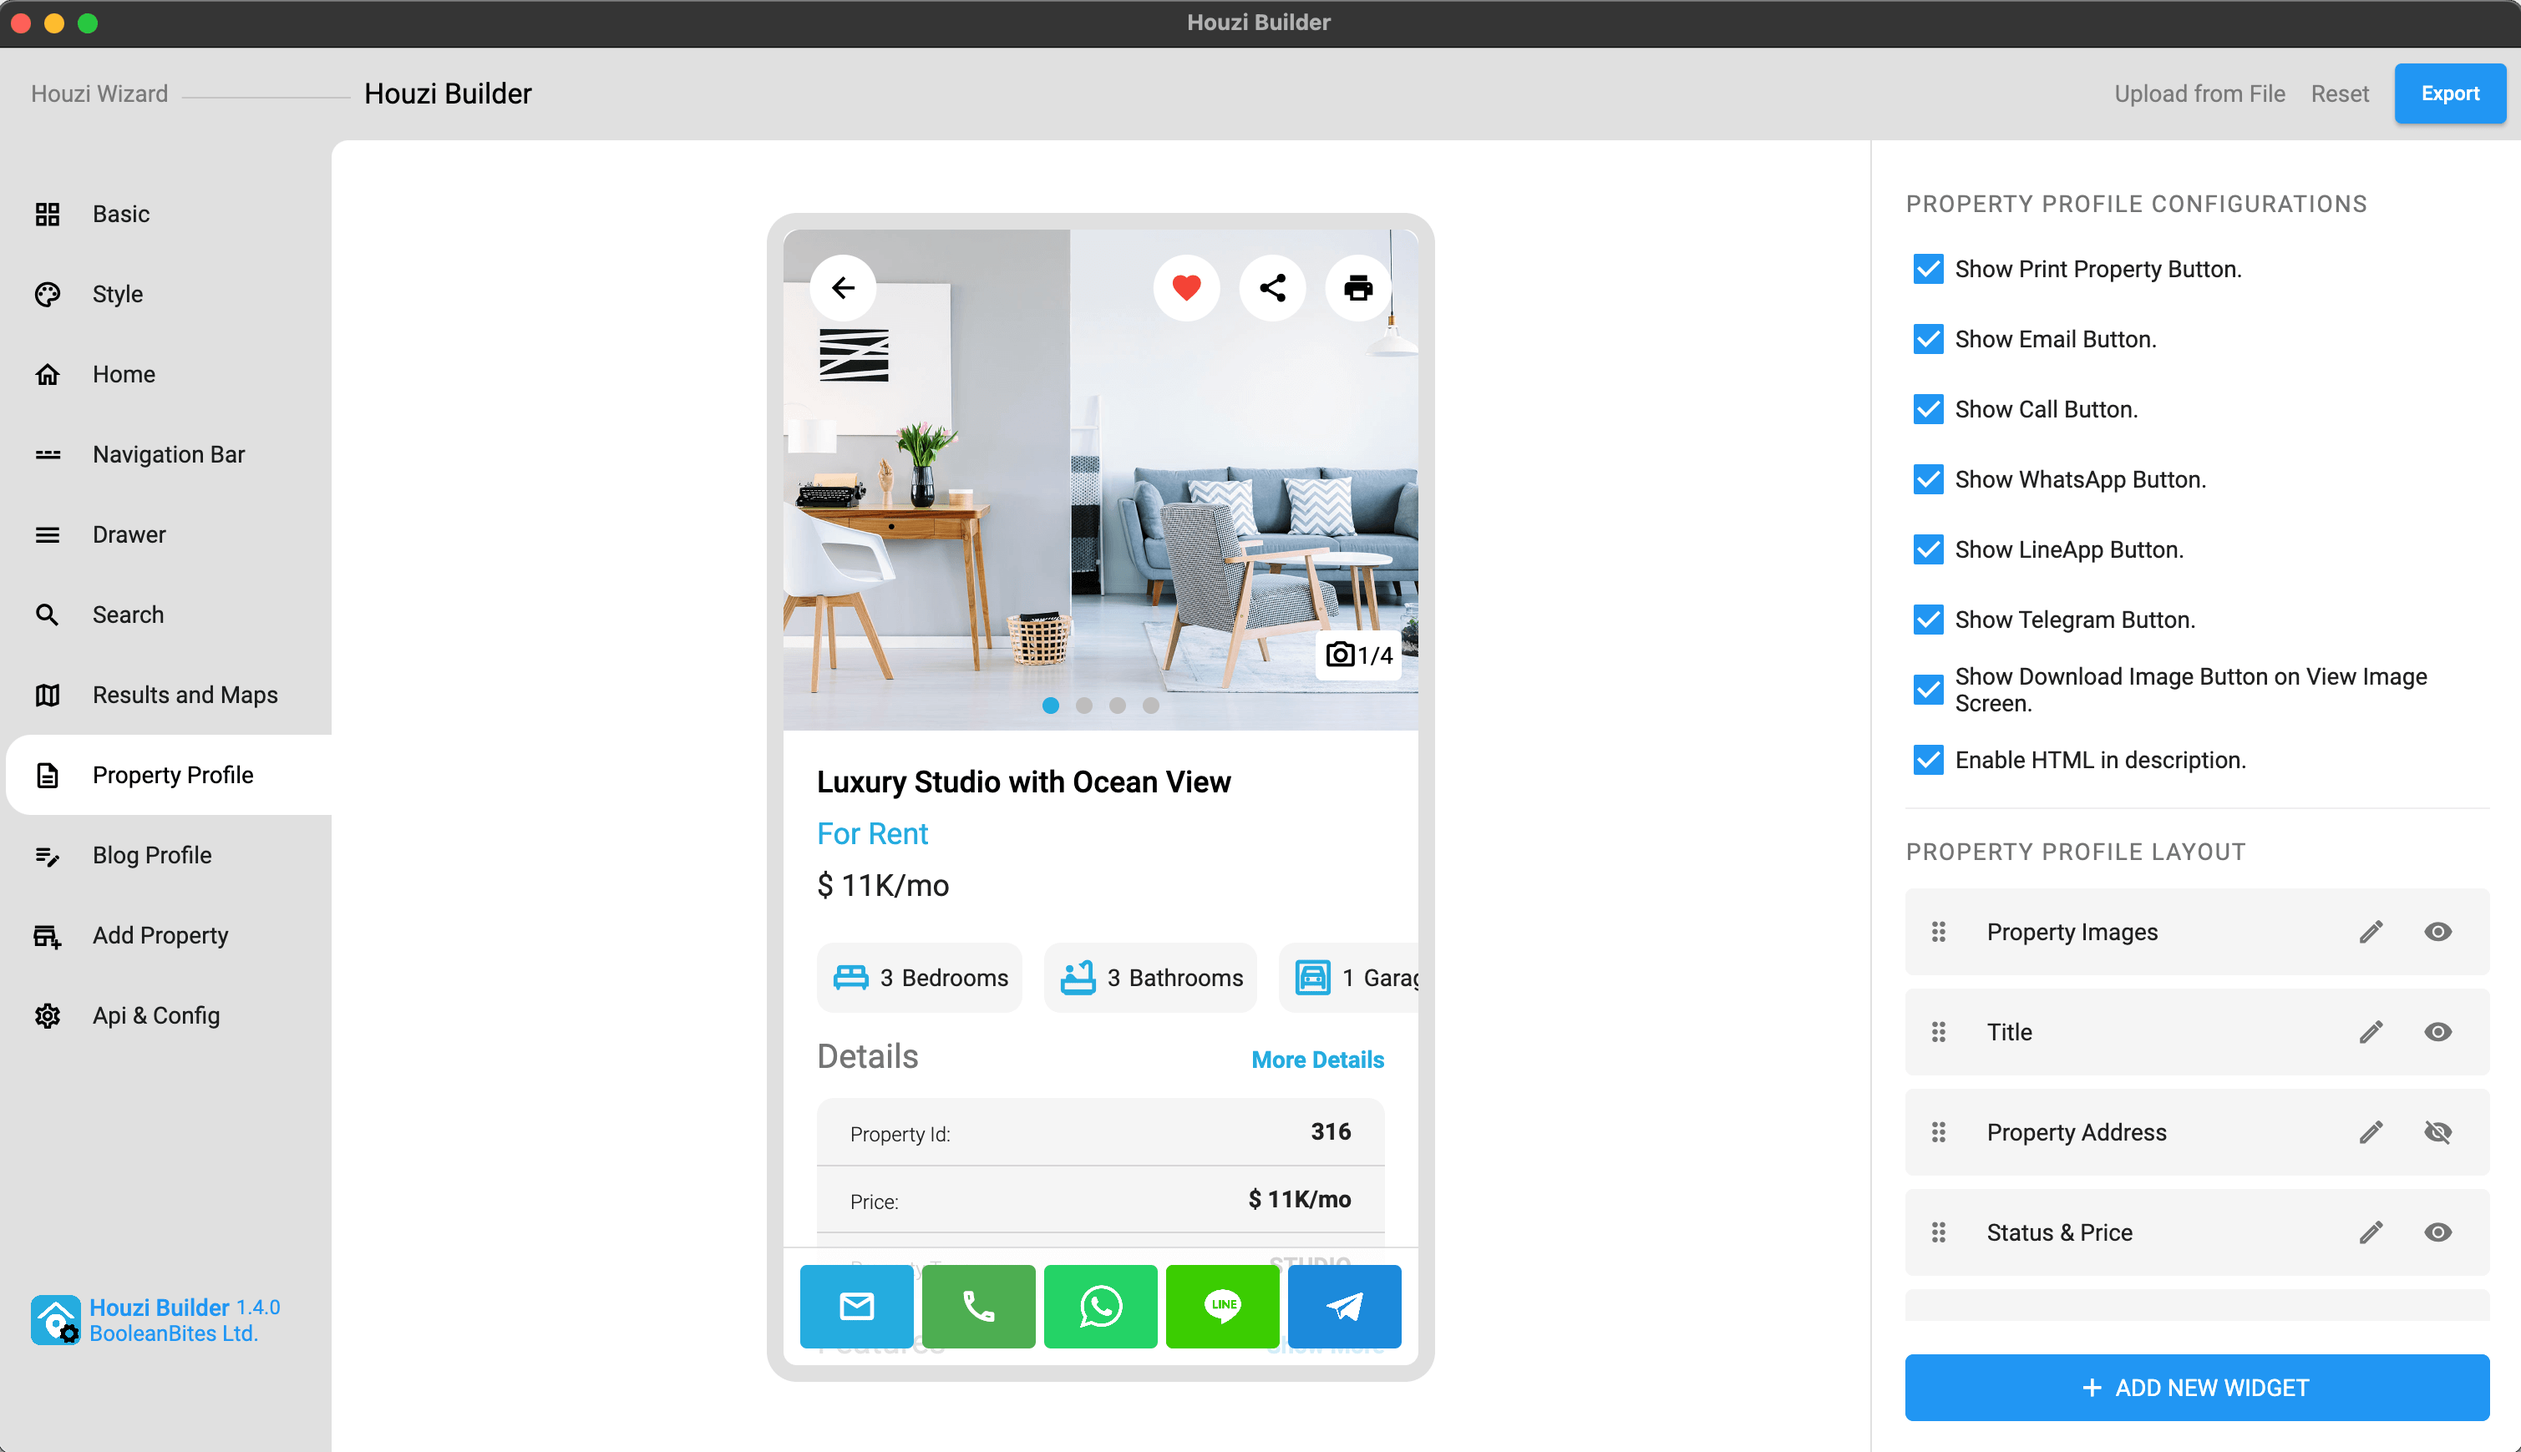
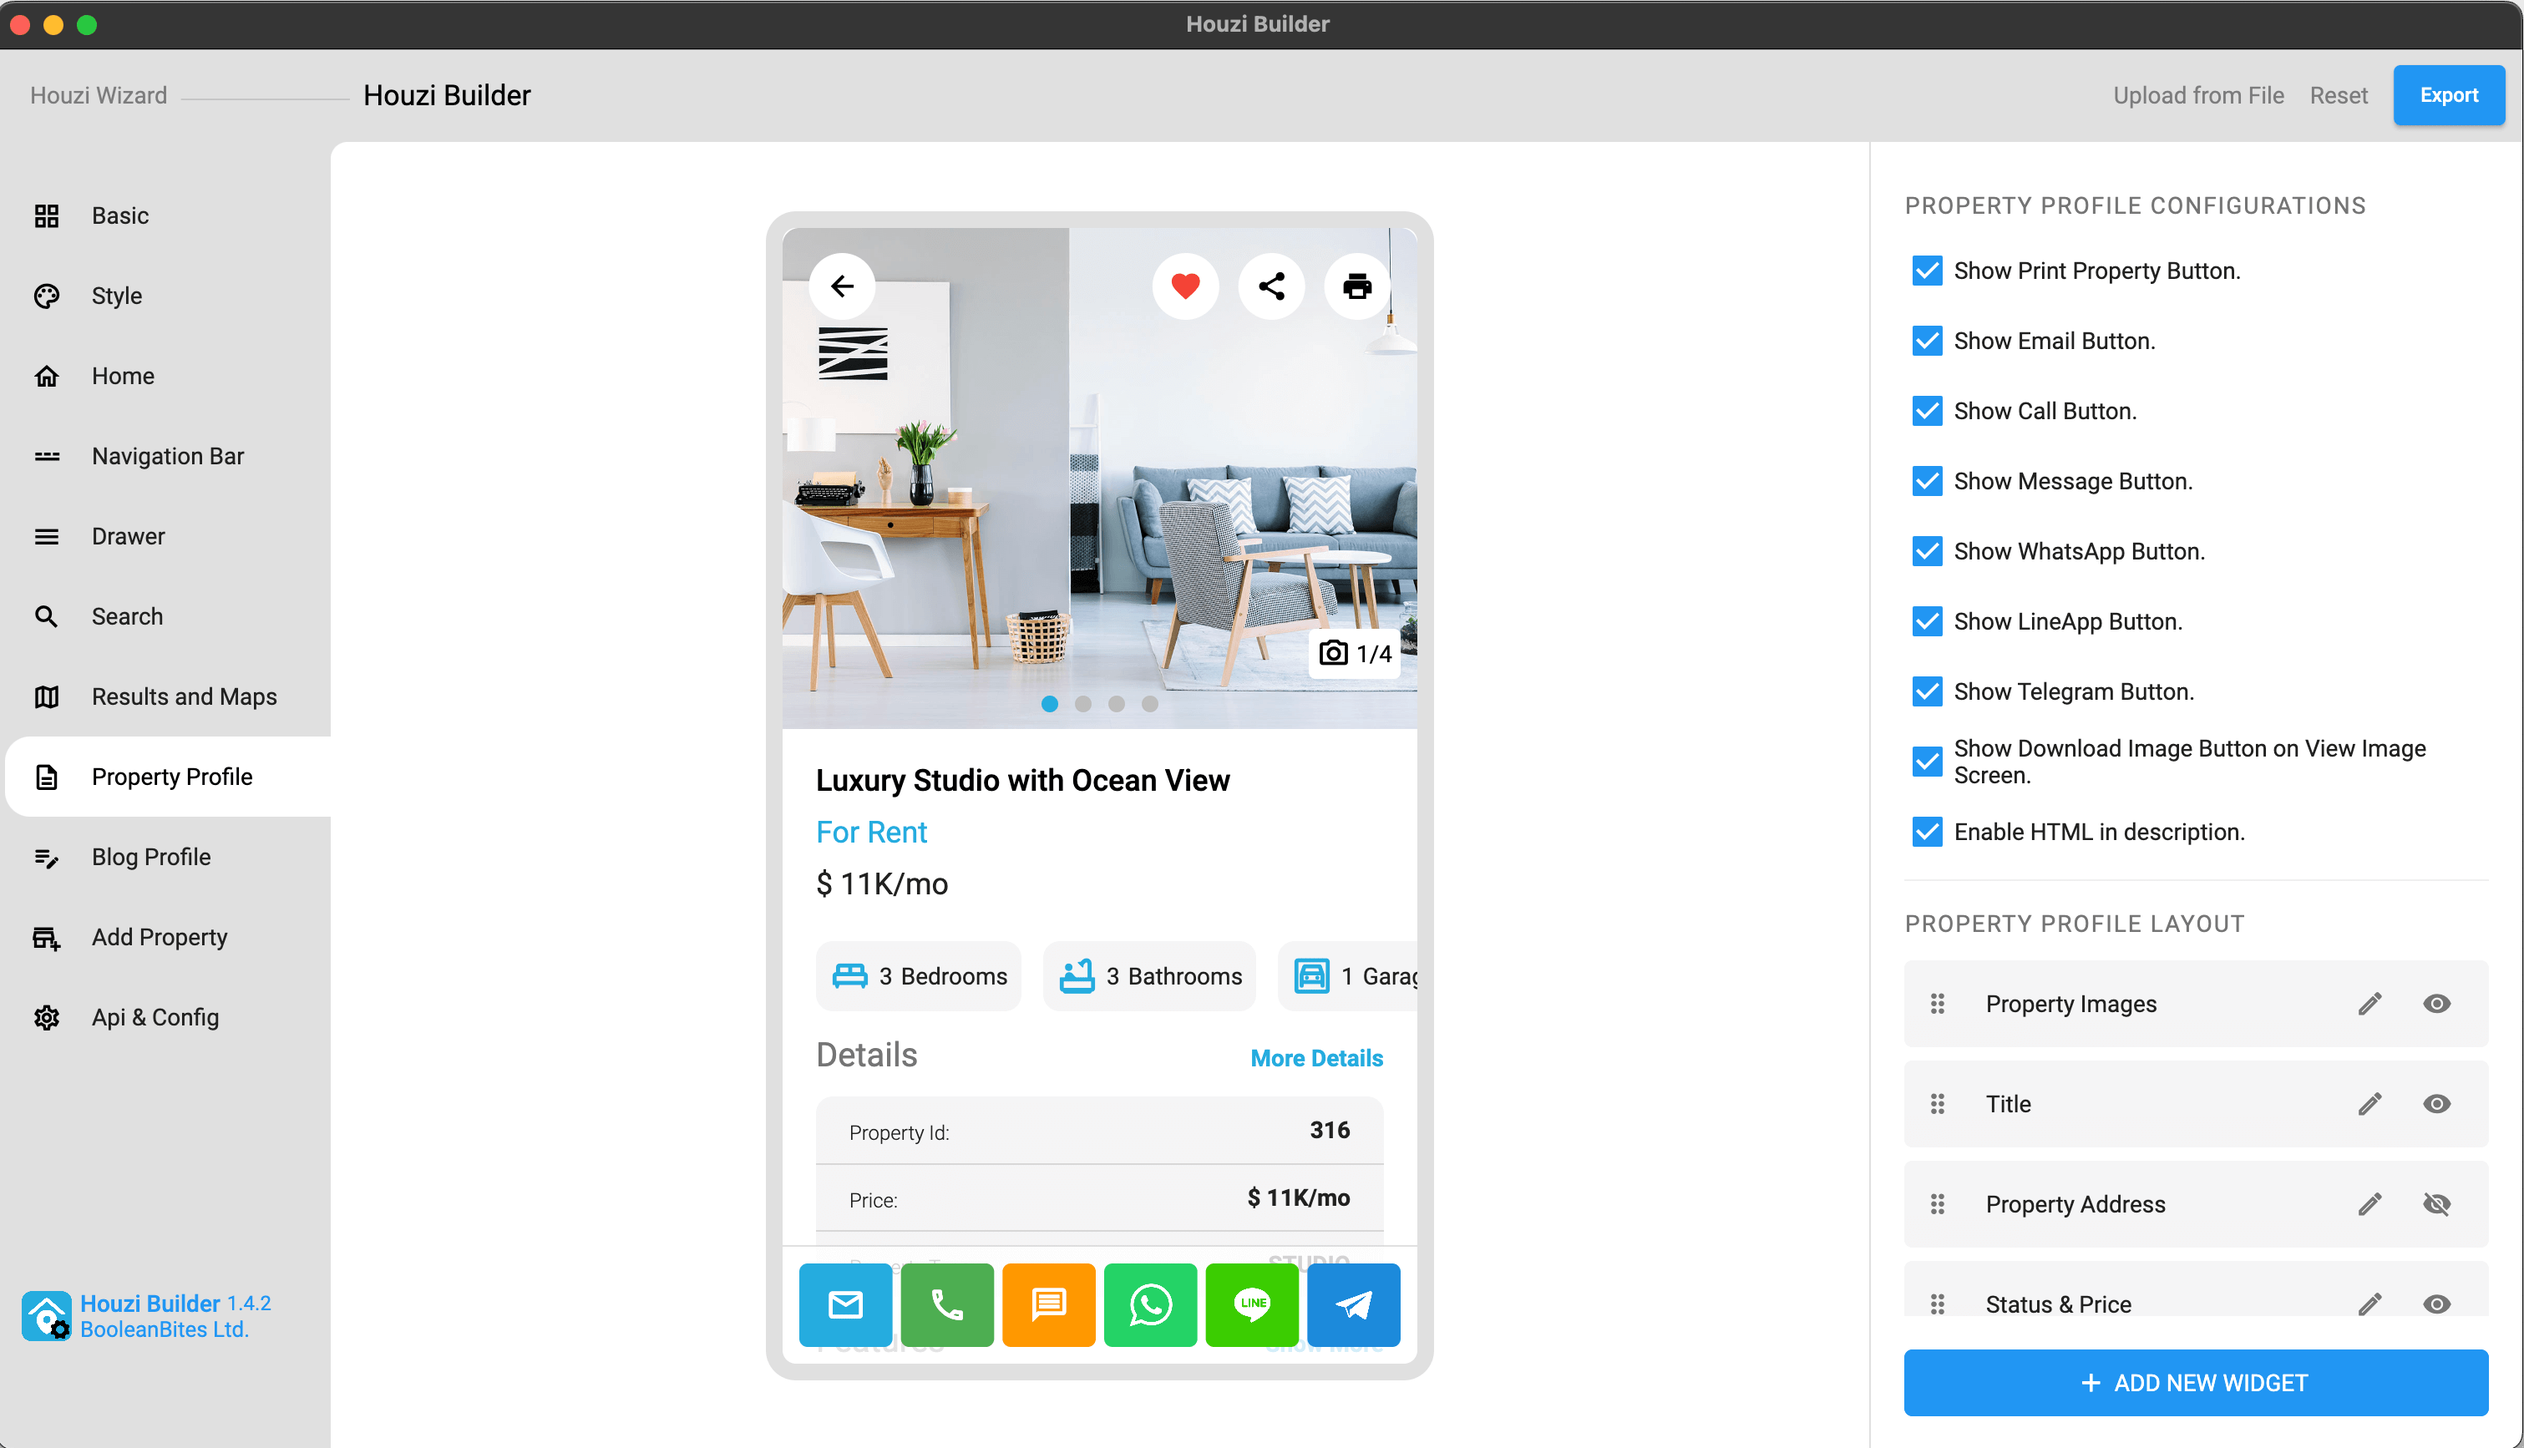
Updated docs as the "Direct Messages" features is added.

diff --git a/_posts/2024-08-05-1.4.2.md b/_posts/2024-08-05-1.4.2.md
@@ -1,0 +1,51 @@
+---
+title: version 1.4.2
+type: major
+---
+
+**1.4.2** bring important changes to Houzi app, plugin and Houzi Builder. Upgrade is recommended.
+
+#### Houzi App 1.4.2
+
+- [New] Added support for Houzez Direct Messages.
+- [New] Added hook DefaultAppThemeModeHook for configuring default App theme.
+- [New] Added support for 'Deleting Notification'.
+- [New] Added support for 'Notification Grouping' for the 'messages' type notifications.
+- [New] Added navigation routes for the notifications of the type 'purchase_activated_pack' and 'free_submission_listing'.
+
+- [Improved] Fixed the issue of Search Map turn into white screen on pressing back button.
+- [Improved] Fixed issues in the response parsing of some APIs in the repository.
+- [Improved] Provided the support for the property_area, property_state, property_country, property_label and property_feature in Saved Searches.
+- [Improved] Fixed the placeholders on Home Screen.
+- [Improved] Fixed the data loading issues of CRM dashboard pages.
+- [Improved] Fixed the data loading issues of Favoritie Listing page.
+- [Improved] Fixed the data loading issues of Saved Searche page.
+- [Improved] Fixed the missing review tab issue on Realtor Information page.
+- [Improved] Fixed the surface tint color issue of sliver app bar in collapse view on all Home pages.
+- [Improved] Fixed the text overlay issue on small screen in Listing design of favourite properties.
+- Several bug fixes & Performance Improvement.
+
+
+#### Houzi Builder 1.4.2
+
+- [New] Added support for adding 'Direct Messages' in bottom Navigation menu.
+- [New] Added support for adding 'Direct Messages' in Drawer menu.
+- [New] Added support for display/ hide the Direct Message button on Property Profile page.
+- [New] Added support for customizing the background color of Direct Message button in Style section.
+
+- [Improved] Improved Small Buttons widget on Property Profile page.
+- [Improved] Fixed the issue of missing blog details layout configuration.
+- Several bug fixes & Performance Improvement.
+
+#### Houzi Rest Api Plugin 1.4.2
+
+- [New] Added support for the 'Direct Message'.
+- [New] Added support for "notification grouping" in messages type notifications.
+- [New] Added "Delete Notification" API.
+- [New] Added subject to the Emails for the Property request.
+- [New] Added notifications support for Reporting content.
+
+- [Improved] In the push notifications, now the input fields can be empty.
+- [Improved] In the push notifications, now the last_checked_time for a user notification can be empty.
+- [Improved] Improved Push Notifications.
+- Several bug fixes & Performance Improvement.

diff --git a/_docs/tools/19_future_updates.md b/_docs/tools/19_future_updates.md
@@ -7,19 +7,19 @@ order: 19
 
 Always make a backup before updating to the next version.
 
-## Migration Guide for 1.4.0.1
+## Migration Guide for 1.4.2
 
-> **Important Notice:** 1.4.0.1 is the updated version of 1.4.0. If you have already migrated to 1.4.0 or you are configuring new project, you can follow this guide and update/setup your project. If you have older version than 1.4.0, we recommend you to first perform the migration for 1.4.0, then migrate to 1.4.0.1.
+> **Important Notice:** 1.4.2 is the updated version of 1.4.0. If you have already migrated to 1.4.0 or you are configuring new project, you can follow this guide and update/setup your project. If you have older version than 1.4.0, we recommend you to first perform the migration for 1.4.0, then migrate to 1.4.2.
 
 We always assume, you haven't made changes to files in houzi_package. If you made changes in your houzi_package then you'll need to move over those manually (again).
 
-Let's assume you simply want to update your houzi_package, updating to 1.4.0.1 requires you following things:
+Let's assume you simply want to update your houzi_package, updating to 1.4.2 requires you following things:
 
 - Always make a backup. (copy in separate folder or use git).
-- Copy `Project_HOME > packages > houzi_package` from 1.4.0.1 and replace houzi_package in your existing project.
+- Copy `Project_HOME > packages > houzi_package` from 1.4.2 and replace houzi_package in your existing project.
 - Copy new hooks_v2.dart and replace existing `Project_HOME > lib > hooks_v2.dart` (if you have made any changes to existing hooks_v2.dart, then you need to carefully review and migrate new changes from hooks_v2.dart into your existing hooks_v2.dart)
 - Copy new main.dart and replace existing `Project_HOME > lib > main.dart` (if you have made any changes to existing main.dart, then you need to carefully review and migrate new changes from main.dart into your existing main.dart)
-- Upgrade your Houzi Rest Api plugin to version 1.4.0.1 download from here: [Houzi Rest Api](https://github.com/booleanbites/houzi-rest-api/releases/latest.zip)
+- Upgrade your Houzi Rest Api plugin to version 1.4.2 download from here: [Houzi Rest Api](https://github.com/booleanbites/houzi-rest-api/releases/latest.zip)
 - Copy translation files or at least copy over new translations from this release.
 - Rest of configurations like configuration.json, you android project folders, ios project folders should remain same.
 

diff --git a/_docs/tools/24_direct_messages.md b/_docs/tools/24_direct_messages.md
@@ -1,0 +1,51 @@
+---
+title: Direct Messages
+category: Tools Setup
+permalink: tools/direct_messages
+order: 24
+---
+
+Direct Messages is one of the best way to contact the realtor. We’ve incorporated this feature to enhance engagement between clients and realtors. 
+
+To use the Direct Message feature, you will need to perform some configurations on your WordPress site. 
+
+This guide includes the following sections:
+
+- [Direct Messages Setup on WordPress](#direct-messages-setup-on-wordpress)
+    - [1. Enable Direct Message Button:](#1-enable-direct-message-button)
+    - [2. Create Message Page:](#2-create-message-page)
+- [Houzi Package via Houzi Builder](#houzi-package-via-houzi-builder)
+
+
+## Direct Messages Setup on WordPress
+
+You have to provide these following configurations:
+
+### 1. Enable Direct Message Button:
+
+Go to the `Theme Options > Contact Forms`.  Enable the *Direct Message Button* setting and Save Changes.
+
+<img src="../../images/messages-setup-wordpress-01.png" alt="messages-setup-wordpress-01" title="messages-setup-wordpress-01" border="1px solid"/>  
+
+### 2. Create Message Page:
+
+- Go to the `Pages` and click on `Add New`.  
+- Set title as **Messages**. 
+- Click on **Default template** and select *User Dashboard Messages* from the dropdown.
+- Click the **Publish** button.
+
+<img src="../../images/messages-setup-wordpress-02.png" alt="messages-setup-wordpress-02" title="messages-setup-wordpress-02" border="1px solid"/>  
+
+
+## Houzi Package via Houzi Builder
+
+>  **❗❗IMPORTANT❗❗**
+>
+>  [Direct Messages Setup on WordPress](#direct-messages-setup-on-wordpress) is required. Please ensure that you have configured Direct Messages on your Wordpress before configuring via HouziBuilder.
+
+- Go to the **Property Profile** section of the Houzi Builder and enable/disable the *Direct Message* button. Checkout HouziBuilder [Property Profile Configurations](/houzi-builder/customize_property_profile#property-profile-configurations). 
+
+- Go to the **Navigation Bar** section of the Houzi Builder and configure the *Direct Messages*. Checkout HouziBuilder [Navigation Bar Configurations](/houzi-builder/customize_navigation_bar#add-new-section). 
+
+
+ *Added in version 1.4.2*

diff --git a/_docs/houzi-builder/7_customize-navigation-bar.md b/_docs/houzi-builder/7_customize-navigation-bar.md
@@ -74,6 +74,8 @@ You are provided with the dropdown list of  **Widget Types**. The details of wid
 
 * **blogs:** If you want to show the *Wordpress Posts/ Blogs* option.
 
+* **messages:** If you want to show the *Direct Messages* option.
+
 * **place_holder:** If you want to [Display your Custom Widget via Hooks](https://houzi-docs.booleanbites.com/hooks-widgets/add_custom_page_in_navigation_bar).
 
 * **web_url:** If you want to show an option which will open a *Webpage*.
@@ -93,6 +95,9 @@ You are provided with the dropdown list of  **Widget Types**. The details of wid
 * **App_Terms_and_Conditions_Screen:** If you want to show *App Terms and Conditions* screen menu option.
 
     <img src="../../images/navbar-widget-types-dropdown.png" alt="navbar-widget-types-dropdown" title="navbar-widget-types-dropdown" width="300" height="720" border= "1px solid"/>
+
+
+> If you are unable to find the 'messages' in the list, you need to [Configure the Direct Messages](/tools/direct_messages#direct-messages-setup-on-wordpress).
 
 
 ### Title:

diff --git a/_docs/houzi-builder/11_customize-property-profile.md b/_docs/houzi-builder/11_customize-property-profile.md
@@ -42,6 +42,10 @@ Let's dive into the details of each section.
 
 - You can **enable** or **disable** the *HTML*, in the description widget, just by *Check Marking or Un-Marking* the **Enable HTML in description** checkbox field. 
 
+- You can **show** or **hide** *Direct Message Button*, on the bottom action bar of screen, just by *Check Marking or Un-Marking* the **Show Messages Button** checkbox field. 
+
+> If you are unable to find the 'Direct Message Button config' on the property profile page, you need to [Configure the Direct Messages](/tools/direct_messages#direct-messages-setup-on-wordpress).
+
 ---
 
 # Add New Section
